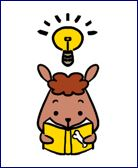
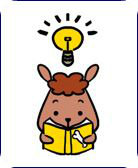
add team home transparent background

diff --git a/biz-js/mark-bus-0119.js b/biz-js/mark-bus-0119.js
@@ -111,13 +111,34 @@ $scope.test =function initMap() {
 
   marker = new google.maps.Marker({
     map: map,
-      icon:'img/idea.jpg',
+      icon:'img/idea.gif',
     draggable: true,
     animation: google.maps.Animation.DROP,
     position: {lat: 24.179281, lng: 120.600585}
   });
    map.setCenter(marker.getPosition());
   marker.addListener('click', toggleBounce);
+
+  var contentString = '<div id="content">'+
+        '<div id="siteNotice">'+
+        '</div>'+
+        // '<h1 id="firstHeading" class="firstHeading">'+"【"+bus+"】"+'</h1>'+
+        '<div id="bodyContent">'+
+        // '<p><b>'+$scope.unix+'</b>'+
+          '<p><b>twcloudwebapp@outlook.com</b>'+
+        '</div>'+
+        '</div>';
+
+    var infowindow = new google.maps.InfoWindow({
+      content: contentString
+    });
+    marker.addListener('click', function() {
+      infowindow.open(map, marker);
+    });
+
+
+
+
 }
 
 function toggleBounce() {

diff --git a/index.html b/index.html
@@ -42,7 +42,7 @@
     <body  ng-controller="SampleCtrl">
         <div class="container">
             <div class="row">
-                <button ng-click="setAnchor()" class="btn btn-primary " >#@351(1/22交卷)主題:走過必留痕跡</button>
+                <button ng-click="setAnchor()" class="btn btn-primary " >build#357(1/22交卷)主題:走過必留痕跡</button>
                 <button  ng-click="test()" class="btn btn-success" > by 諾得捷思隊</button>
                 <button class="btn btn-danger " >選擇車牌號碼 (計 {{busList.length}} 筆) </button>
 
